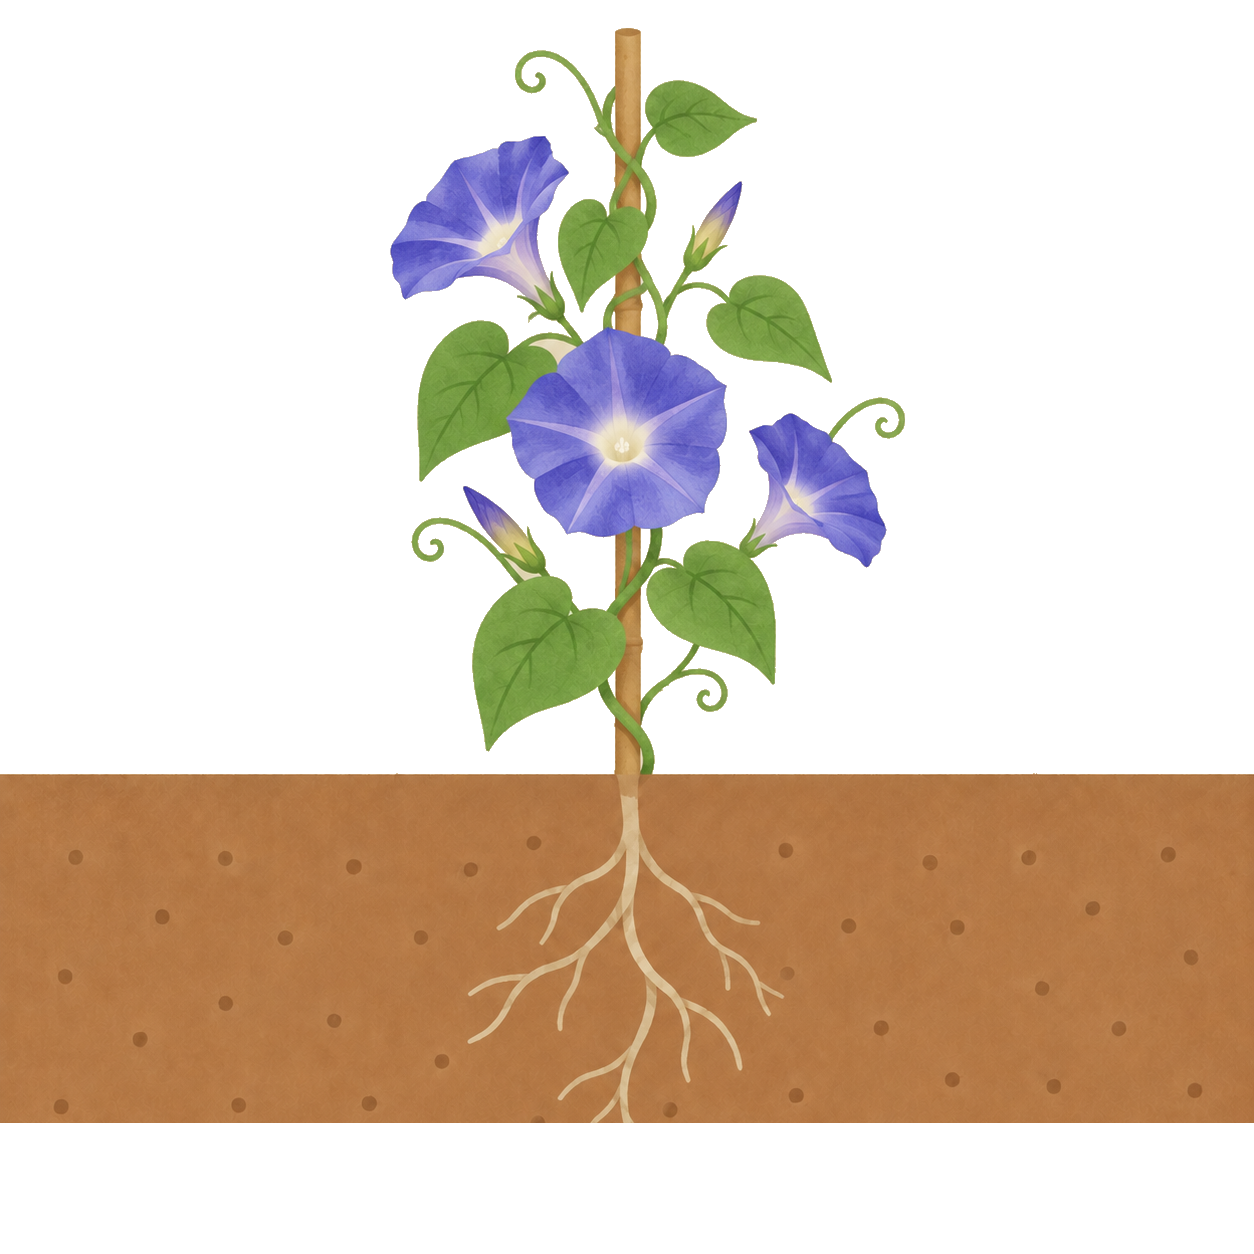
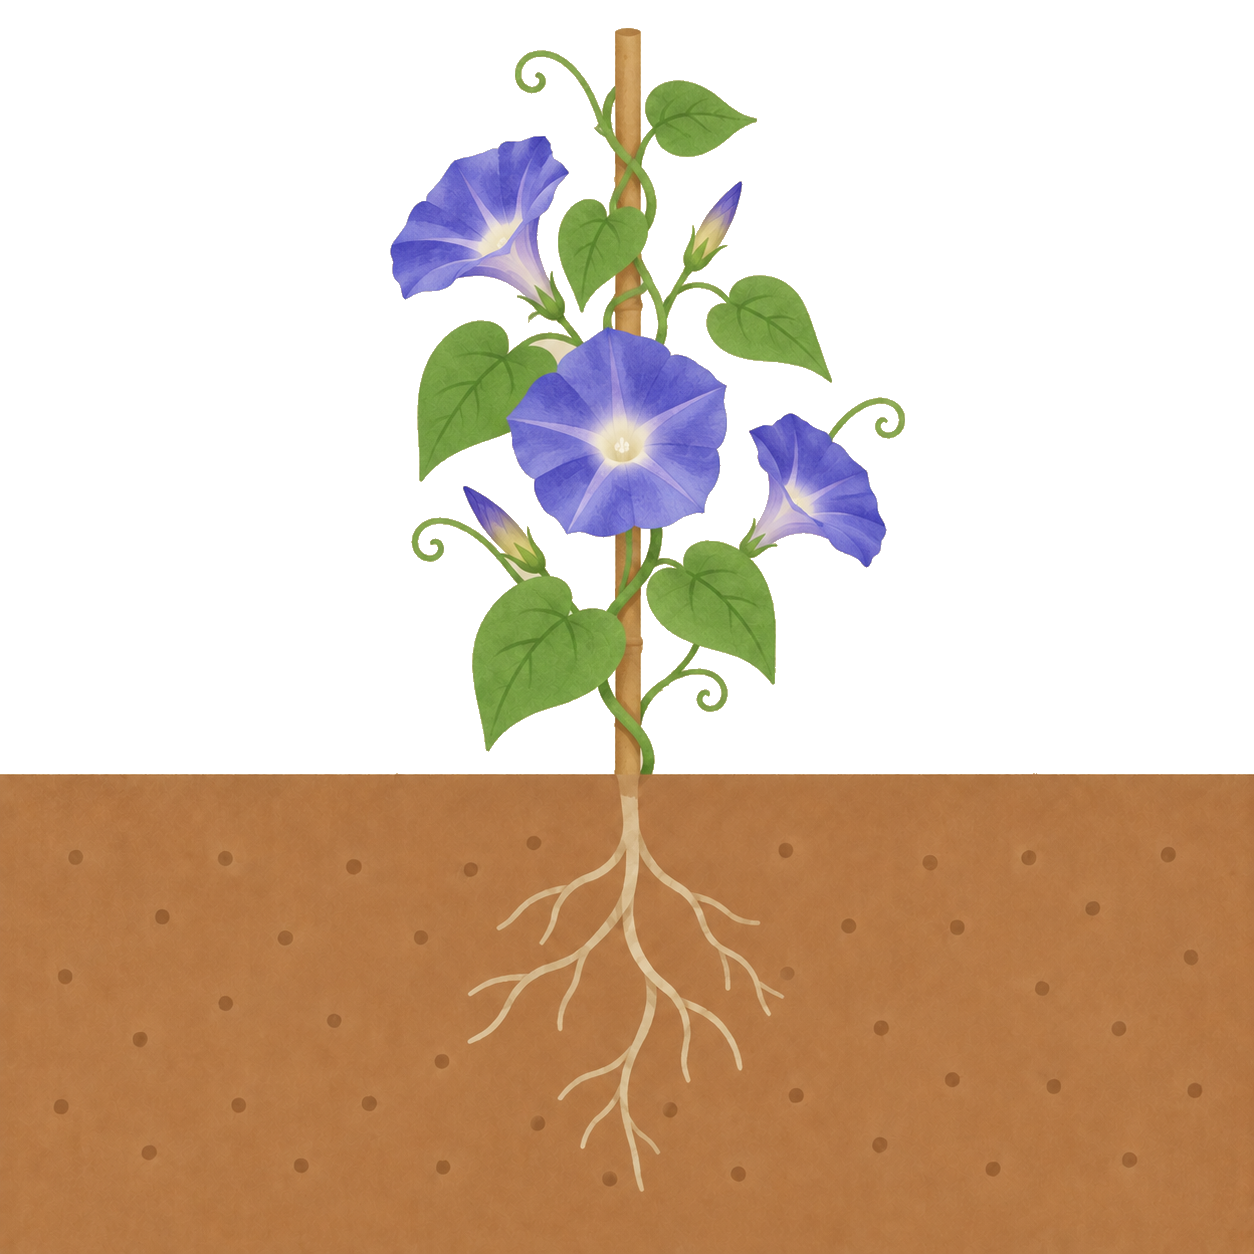
fix: prevent duplicate planting memorials

Changed region(s): [[0.0, 0.8708, 1.0, 1.0]]

diff --git a/components/farm/use-farm.ts b/components/farm/use-farm.ts
@@ -2,7 +2,7 @@
 import { durationForEvent } from "../../lib/farm-assets";
 import { useCallback, useEffect, useRef, useState } from "react";
 import { demoItems, mergeCollectionItems } from "../../lib/farm/catalog";
-import { DEMO_DURATION, FarmAction, FarmEvent, Mode, emptyFarm, eligibleItems, makeCrop, reduceFarm, roundProgress, stageOf, memorialFamilyKey, seasonForDate, seasonalFamilies, type ContentItem, type Workspace, type Season, type SeasonMode } from "../../lib/farm/model";
+import { DEMO_DURATION, FarmAction, FarmEvent, Mode, emptyFarm, eligibleItems, makeCrop, reduceFarm, roundProgress, stageOf, memorialFamilyKey, seasonForDate, seasonalFamilies, type ContentItem, type Workspace, type FarmState, type Season, type SeasonMode } from "../../lib/farm/model";
 import { LEGACY_KEY, STORAGE_KEY, favoritesStorageKey, initialPersonalWorkspace, initialWorkspace, personalStorageKey, restorePersonalWorkspace, restoreWorkspace } from "../../lib/farm/storage";
 
 type Auth = { authenticated: boolean; user?: { id: string; name: string; avatar?: string }; sessionId?: string };
@@ -22,6 +22,7 @@ export function useFarm() {
   const [favlistsError, setFavlistsError] = useState("");
   const [syncProgress, setSyncProgress] = useState("");
   const seenMature = useRef(new Set<string>());
+  const memorialPending = useRef(new Set<string>());
   const saveBlocked = useRef(false);
   const accountId = useRef<string | null>(null);
   const commit = useCallback((next: Workspace, persist = true) => {
@@ -30,6 +31,32 @@ export function useFarm() {
       try { localStorage.setItem(personalStorageKey(accountId.current), JSON.stringify(next)); } catch { setStorageWarning("浏览器暂时无法保存当前账号的农场。"); }
     }
   }, []);
+
+  const triggerMemorial = useCallback((base: Workspace, farm: FarmState, preferredFamily?: string) => {
+    const counts = new Map<string, number>();
+    for (const entry of farm.log) {
+      const key = memorialFamilyKey(entry.assetFamily);
+      counts.set(key, (counts.get(key) ?? 0) + 1);
+    }
+    const keys = preferredFamily ? [memorialFamilyKey(preferredFamily)] : [...counts.keys()];
+    for (const key of keys) {
+      if ((counts.get(key) ?? 0) < 3) continue;
+      const marker = "memorial:" + key;
+      const scope = base.mode + ":" + (accountId.current ?? "demo") + ":" + marker;
+      if (farm.achievements.includes(marker)) {
+        memorialPending.current.delete(scope);
+        continue;
+      }
+      if (memorialPending.current.has(scope)) continue;
+      const family = farm.log.find(entry => memorialFamilyKey(entry.assetFamily) === key)?.assetFamily;
+      if (!family) continue;
+      memorialPending.current.add(scope);
+      const nextFarm = { ...farm, achievements: [...farm.achievements, marker] };
+      commit({ ...base, [base.mode]: nextFarm });
+      setMemorial({ family, season: base.season });
+      break;
+    }
+  }, [commit]);
 
   const loadPersonal = useCallback((userId: string, items: ContentItem[] = []) => {
     accountId.current = userId;
@@ -123,18 +150,9 @@ export function useFarm() {
   useEffect(() => { if (!ready || !farm.entered) return; const w = current.current, catalog = w.mode === "demo" ? demoItems : w.favoritePool; const next = reduceFarm(w[w.mode], { type: "CHECK_ACHIEVEMENTS", now }, catalog); if (next !== w[w.mode]) commit({ ...w, [w.mode]: next }); }, [ready, now, farm, commit]);
   useEffect(() => {
     if (!ready) return;
-    const currentFarm = current.current[current.current.mode];
-    const counts = new Map<string, number>();
-    for (const entry of currentFarm.log) { const key = memorialFamilyKey(entry.assetFamily); counts.set(key, (counts.get(key) ?? 0) + 1); }
-    for (const [key, count] of counts) {
-      const marker = "memorial:" + key;
-      if (count >= 3 && !currentFarm.achievements.includes(marker)) {
-        const family = currentFarm.log.find(entry => memorialFamilyKey(entry.assetFamily) === key)?.assetFamily;
-        if (family) { setMemorial({ family, season: current.current.season }); commit({ ...current.current, [current.current.mode]: { ...currentFarm, achievements: [...currentFarm.achievements, marker] } }); }
-        break;
-      }
-    }
-  }, [ready, mode, farm.log.length, commit]);
+    const w = current.current;
+    triggerMemorial(w, w[w.mode]);
+  }, [ready, mode, farm.log.length, triggerMemorial]);
   useEffect(() => { if (!ready || !now) return; if (current.current.seasonMode === "auto") { const nextSeason = seasonForDate(new Date(now)); if (nextSeason !== current.current.season) commit({ ...current.current, season: nextSeason, welcomeSeason: nextSeason }); } const mature = farm.crops.filter(c => stageOf(c, now) === "mature"); const found = mature.find(c => !seenMature.current.has(mode + c.id)); mature.forEach(c => seenMature.current.add(mode + c.id)); if (found) { setEvent({ type: "MATURE", plot: found.plot, at: Date.now() }); setNotice("有一段回忆成熟了。它会一直等你，随时来收获。"); } }, [farm.crops, farm.entered, mode, ready, now]);
 
   function dispatch(action: FarmAction) { const w = current.current, catalog = w.mode === "demo" ? demoItems : w.favoritePool; const nextFarm = reduceFarm(w[w.mode], action, catalog); if (nextFarm === w[w.mode]) return false; commit({ ...w, [w.mode]: nextFarm }); return true; }
@@ -159,21 +177,13 @@ export function useFarm() {
     if (!popup) { setNotice("浏览器拦截了新标签页，请允许弹窗后再试。"); return false; }
     try { popup.opener = null; popup.location.href = item.url; } catch { popup.close(); return false; }
     dispatch({ type: "HARVEST", id, now: Date.now() });
-    let harvestedWorkspace = current.current;
-    const harvestedFarm = harvestedWorkspace[harvestedWorkspace.mode];
-    const familyKey = memorialFamilyKey(crop.assetFamily);
-    const nextCount = harvestedFarm.log.filter(entry => memorialFamilyKey(entry.assetFamily) === familyKey).length;
-    const memorialMarker = "memorial:" + familyKey;
-    if (crop.assetFamily && nextCount >= 3 && !harvestedFarm.achievements.includes(memorialMarker)) {
-      setMemorial({ family: crop.assetFamily, season: w.season });
-      harvestedWorkspace = { ...harvestedWorkspace, [harvestedWorkspace.mode]: { ...harvestedFarm, achievements: [...harvestedFarm.achievements, memorialMarker] } };
-      commit(harvestedWorkspace);
-    }
+    const harvestedWorkspace = current.current;
+    triggerMemorial(harvestedWorkspace, harvestedWorkspace[harvestedWorkspace.mode], crop.assetFamily);
     if (w.mode === "personal") commit({ ...current.current, consumedUrls: [...new Set([...current.current.consumedUrls, item.url])] });
     setEvent({ type: "HARVEST", plot: crop.plot, at: Date.now() }); setNotice(w.mode === "demo" ? "体验收获 +1。" : "重温 +1。原帖已打开。"); return true;
   }
   function importCollections() { setNotice("个人收藏由知乎同步提供。"); return 0; }
-  function reset(mode: Mode) { saveBlocked.current = false; commit({ ...current.current, [mode]: emptyFarm(mode === "demo" ? demoItems : current.current.personalItems) }); }
+  function reset(mode: Mode) { saveBlocked.current = false; const prefix = mode + ":" + (mode === "personal" ? (accountId.current ?? "") : "demo") + ":"; for (const key of [...memorialPending.current]) if (key.startsWith(prefix)) memorialPending.current.delete(key); commit({ ...current.current, [mode]: emptyFarm(mode === "demo" ? demoItems : current.current.personalItems) }); }
   function exportSave() {}
   function restoreSave() {}
   function login() { window.location.href = "/api/auth/zhihu?returnTo=personal"; }
